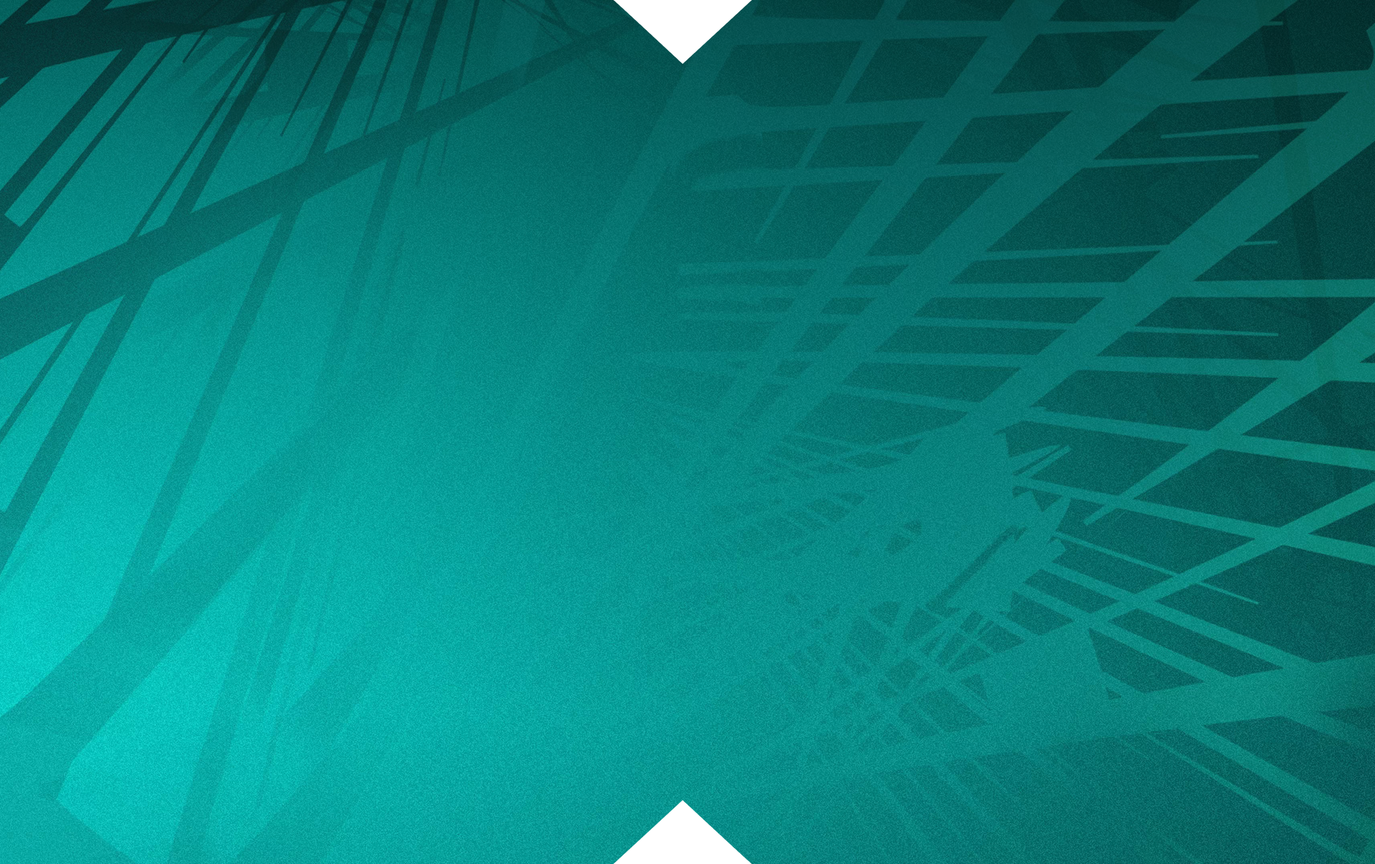
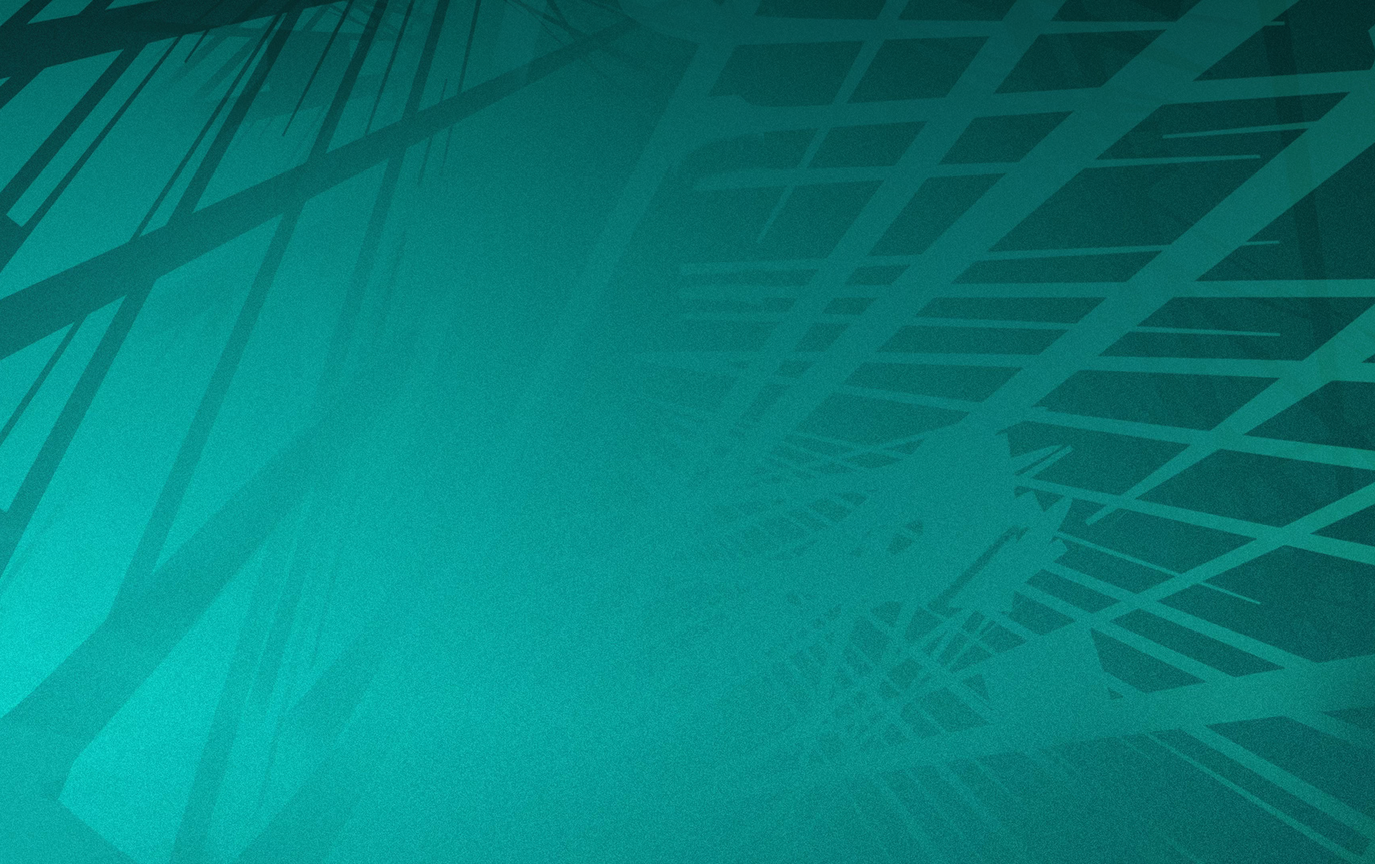
Reduces size of images. Updates image handling.

diff --git a/src/index.html b/src/index.html
@@ -120,9 +120,6 @@
             
             <!-- Main Speakers Content -->
             <div class="speakers-content">
-                <div class="speakers-background">
-                    <img src="/images/SPEAKERS-BACKGROUND.png" alt="Speakers background" class="speakers-bg-image">
-                </div>
                 
                 <!-- Downward Triangle -->
                 <div class="triangle-container">
@@ -181,11 +178,11 @@
                 <div class="workshop-section">
                     <h2 class="workshop-title">WORKSHOP</h2>
                 </div>
-            </div>
-            
-            <!-- Upward Triangle -->
-            <div class="triangle-container bottom">
-                <div class="triangle-up"></div>
+                
+                <!-- Upward Triangle -->
+                <div class="triangle-container bottom">
+                    <div class="triangle-up"></div>
+                </div>
             </div>
             
             <!-- Bottom Scrolling Text: SCHEDULE -->
@@ -302,10 +299,6 @@
             
             <!-- Main Hosts Content -->
             <div class="hosts-content">
-                <div class="hosts-background">
-                    <img src="/images/HOSTS_BACKGROUND.png" alt="Hosts background" class="hosts-bg-image">
-                </div>
-                
                 <!-- Downward Triangle -->
                 <div class="triangle-container">
                     <div class="triangle-down"></div>
@@ -475,10 +468,6 @@
 
     <!-- Footer -->
     <footer class="footer-block">
-        <div class="footer-background">
-            <img src="/images/FOOTER-BACKGROUND.png" alt="Footer background" class="footer-bg-image">
-        </div>
-        
         <div class="footer-content">
             <!-- Event Partners Header -->
             <div class="footer-header">

diff --git a/src/styles.css b/src/styles.css
@@ -1011,23 +1011,12 @@ p {
   align-items: center;
   justify-content: center;
   padding: 0 90px;
+  background-image: url('/images/SPEAKERS-BACKGROUND.jpg');
+  background-size: cover;
+  background-position: center;
+  background-repeat: no-repeat;
 }
 
-.speakers-background {
-  position: absolute;
-  top: 0;
-  left: 0;
-  width: 100%;
-  height: 100%;
-  z-index: 1;
-}
-
-.speakers-bg-image {
-  width: 100%;
-  height: 100%;
-  object-fit: cover;
-  object-position: center;
-}
 
 .speakers-grid {
   position: relative;
@@ -1359,23 +1348,12 @@ p {
   align-items: center;
   justify-content: center;
   padding: 0 90px;
+  background-image: url('/images/HOSTS_BACKGROUND.jpg');
+  background-size: cover;
+  background-position: center;
+  background-repeat: no-repeat;
 }
 
-.hosts-background {
-  position: absolute;
-  top: 0;
-  left: 0;
-  width: 100%;
-  height: 100%;
-  z-index: 1;
-}
-
-.hosts-bg-image {
-  width: 100%;
-  height: 100%;
-  object-fit: cover;
-  object-position: center;
-}
 
 .hosts-container {
   position: relative;
@@ -1586,7 +1564,6 @@ p {
   justify-content: center;
   align-items: center;
   padding: 0 0 20px;
-  background-color: var(--color-darker-teal);
 }
 
 .triangle-container.bottom {
@@ -2176,24 +2153,14 @@ p {
 .footer-block {
   width: 100%;
   background-color: var(--color-darker-teal);
+  background-image: url('/images/FOOTER-BACKGROUND.jpg');
+  background-size: cover;
+  background-position: center;
+  background-repeat: no-repeat;
   padding: 66px 90px;
   position: relative;
 }
 
-.footer-background {
-  position: absolute;
-  top: 0;
-  left: 0;
-  width: 100%;
-  height: 100%;
-  z-index: 1;
-}
-
-.footer-bg-image {
-  width: 100%;
-  height: 100%;
-  object-fit: cover;
-}
 
 .footer-content {
   position: relative;
